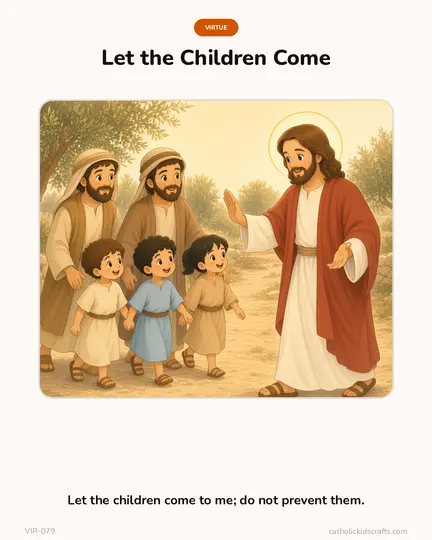
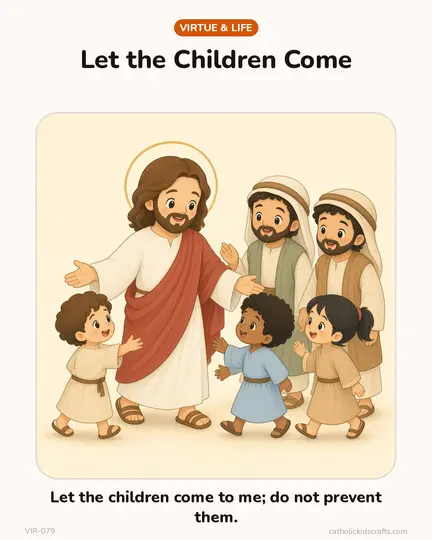
fix(virtues): match the painted card layout on the Courage cards
Use the Virtue & Life pill, the same title size as the painted cards,
a nearly square illustration frame, and a larger caption just under
that frame. Regenerate the three scenes in the cute storybook style.
The verse slide no longer shows the editor note about the word So.

diff --git a/src/components/virtues/VirtueCarousel.tsx b/src/components/virtues/VirtueCarousel.tsx
@@ -173,8 +173,8 @@ function VerseSlide({ slide }: { slide: Extract<Slide, { kind: "verse" }> }) {
     <>
       <CardFace id={slide.cardId} alt={slide.ref} />
       <p className="vcx-ref">{slide.ref}</p>
-      <p className="vcx-verse">“{slide.text}”</p>
-      <p className="vcx-note">{slide.note}</p>
+          <p className="vcx-verse">“{slide.text}”</p>
+          <p className="vcx-copy">God knows you, and you matter to Him.</p>
     </>
   );
 }

diff --git a/scripts/build-virtue-story-cards.py b/scripts/build-virtue-story-cards.py
@@ -21,15 +21,16 @@ THUMBS = ROOT / "public" / "cards" / "thumbs"
 LOCKED = ROOT / "public" / "cards" / "locked"
 FONT = Path("/tmp/ckc-fonts")
 PAGE = (254, 249, 246)  # #fef9f6
-PILL = (212, 84, 0)  # #d45400
-INK = (22, 15, 9)
+PILL = (213, 84, 7)  # VIR-001 pill fill
+INK = (26, 20, 16)
 FOOT = (168, 162, 155)  # #a8a29b
-FRAME = (225, 219, 205)  # #e1dbcd
+FRAME = (226, 220, 206)  # #e2dcce, the painted stroke
 W, H = 1080, 1350
-# Well matches the painted Bible cards (stroke near x90-114, top near y240).
-WELL = (96, 248, 984, 996)  # left, top, right, bottom
-RADIUS = 36
-PILL_BOX = (485, 47, 595, 90)  # 110 x 43
+# BIB-031 frame on the 432 thumb, scaled by 2.5: nearly square, caption sits just under it.
+WELL = (88, 280, 990, 1198)
+RADIUS = 56
+# VIR-001 "VIRTUE & LIFE" pill, scaled from the 432 thumb.
+PILL_BOX = (435, 48, 645, 90)
 
 CARDS = [
     {
@@ -116,35 +117,31 @@ def build(card: dict) -> Image.Image:
     image.paste(painting, (left, top), mask)
     draw.rounded_rectangle(WELL, radius=RADIUS, outline=FRAME, width=4)
     draw.rounded_rectangle(PILL_BOX, radius=21, fill=PILL)
-    pill_font = font("Nunito-ExtraBold.ttf", 15)
-    label = "VIRTUE"
+    pill_font = font("Nunito-ExtraBold.ttf", 26)
+    label = "VIRTUE & LIFE"
     pw, ph, pbox = text_size(draw, label, pill_font)
     px = (PILL_BOX[0] + PILL_BOX[2] - pw) / 2 - pbox[0]
     py = (PILL_BOX[1] + PILL_BOX[3] - ph) / 2 - pbox[1]
     draw.text((px, py), label, font=pill_font, fill=(255, 255, 255))
 
-    title_face = fit_width(draw, card["title"], "Nunito-ExtraBold.ttf", 900, 54, 36)
+    # Same size as "Jesus Blesses the Children" (ink height about 47px). Do not shrink it.
+    title_face = font("Nunito-ExtraBold.ttf", 64)
     tw, th, tbox = text_size(draw, card["title"], title_face)
-    # Ink top lands at y123, inside the painted title band.
+    if tw > 960:
+        title_face = font("Nunito-ExtraBold.ttf", 64)
     tx = (W - tw) / 2 - tbox[0]
     ty = 123 - tbox[1]
     draw.text((tx, ty), card["title"], font=title_face, fill=INK)
 
-    cap_face = fit_width(draw, card["caption"], "Nunito-Bold.ttf", 920, 32, 22)
-    lines = wrap(draw, card["caption"], cap_face, 920)
-    if len(lines) > 2:
-        cap_face = fit_width(draw, card["caption"], "Nunito-Bold.ttf", 980, 26, 20)
-        lines = wrap(draw, card["caption"], cap_face, 980)
+    cap_face = font("Nunito-ExtraBold.ttf", 40)
+    lines = wrap(draw, card["caption"], cap_face, 900)
     heights = []
     for line in lines:
         _, lh, box = text_size(draw, line, cap_face)
         heights.append((lh, box))
-    gap = 8
-    block = sum(h for h, _ in heights) + gap * (len(lines) - 1)
-    # Last line's ink sits on the painted caption band (about y1238).
-    y = 1238 - (heights[-1][1][1] if lines else 0)
-    if len(lines) == 2:
-        y = 1238 - heights[0][0] - gap - heights[1][1][1]
+    gap = 12
+    # First line starts just under the frame, like VIR-001.
+    y = WELL[3] + 28 - heights[0][1][1]
     for line, (lh, box) in zip(lines, heights):
         lw, _, _ = text_size(draw, line, cap_face)
         draw.text(((W - lw) / 2 - box[0], y), line, font=cap_face, fill=INK)
@@ -178,7 +175,7 @@ def check(path: Path, card_id: str) -> None:
                 ys.append(y)
     assert xs, "missing pill"
     bw, bh = max(xs) - min(xs) + 1, max(ys) - min(ys) + 1
-    assert 100 <= bw <= 120 and 40 <= bh <= 48, (bw, bh, min(ys), max(ys))
+    assert 200 <= bw <= 220 and 40 <= bh <= 48, (bw, bh, min(ys), max(ys))
     assert 44 <= min(ys) <= 52, min(ys)
     # Title ink exists in the band.
     title = 0
@@ -190,8 +187,8 @@ def check(path: Path, card_id: str) -> None:
     # Scene fills the well: a pixel just inside the frame is not page cream.
     assert dist(px[WELL[0] + 24, (WELL[1] + WELL[3]) // 2], PAGE) > 12
     # Caption ink low on the card, footer under it.
-    cap = [y for y in range(1180, 1285) if any(sum(px[x, y]) < 140 for x in range(200, 880, 3))]
-    assert cap and min(cap) >= 1188, cap[:5] if cap else None
+    cap = [y for y in range(1160, 1320) if any(sum(px[x, y]) < 140 for x in range(120, 960, 3))]
+    assert cap and 1180 <= min(cap) <= 1260, (min(cap) if cap else None, max(cap) if cap else None)
     foot_y = None
     for y in range(1290, 1345):
         if sum(px[70, y]) < 600:
